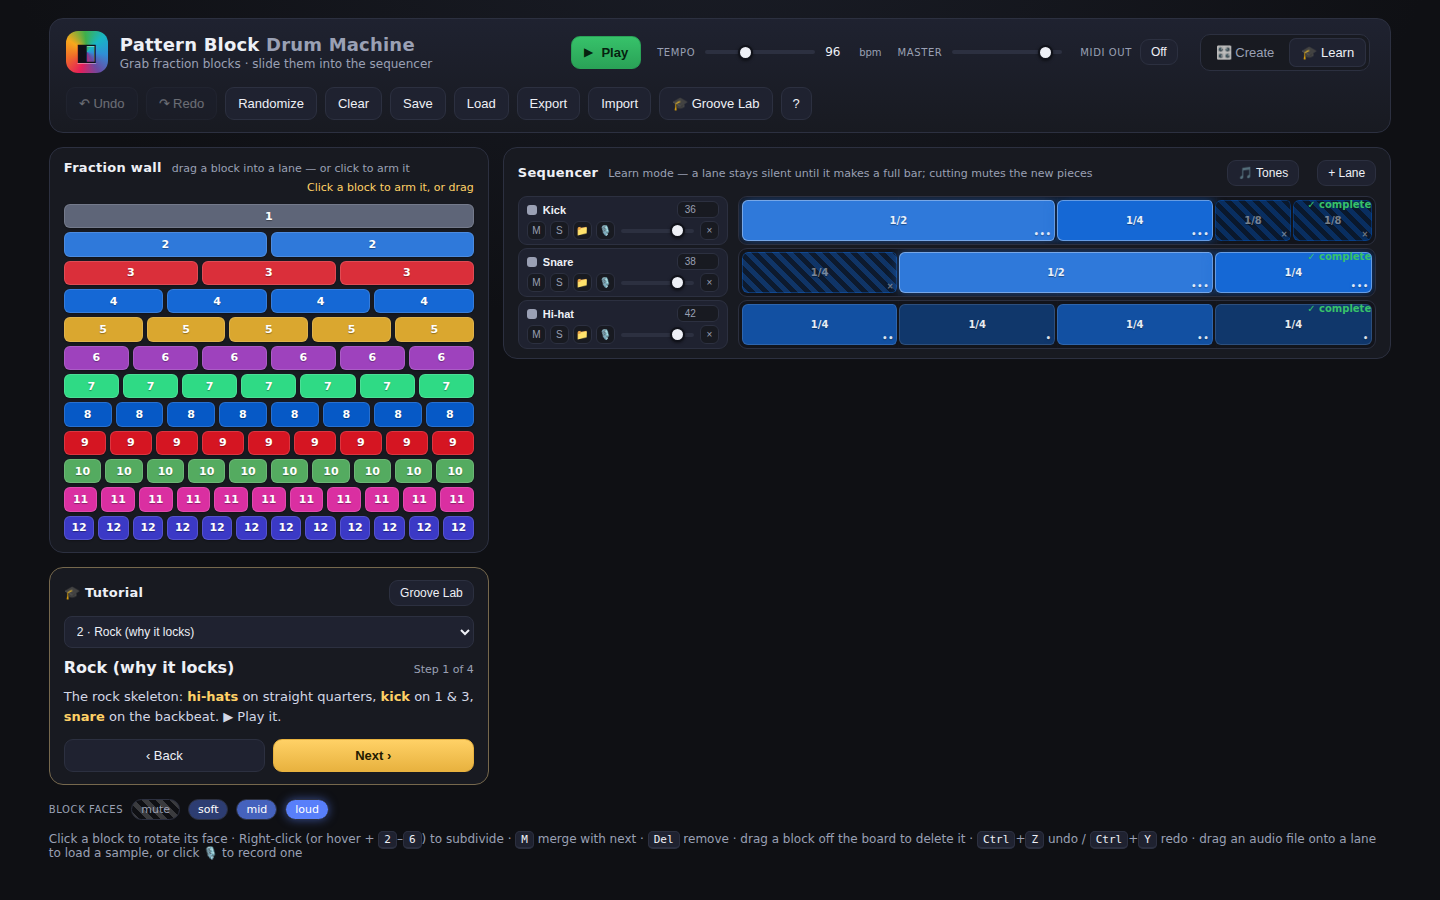
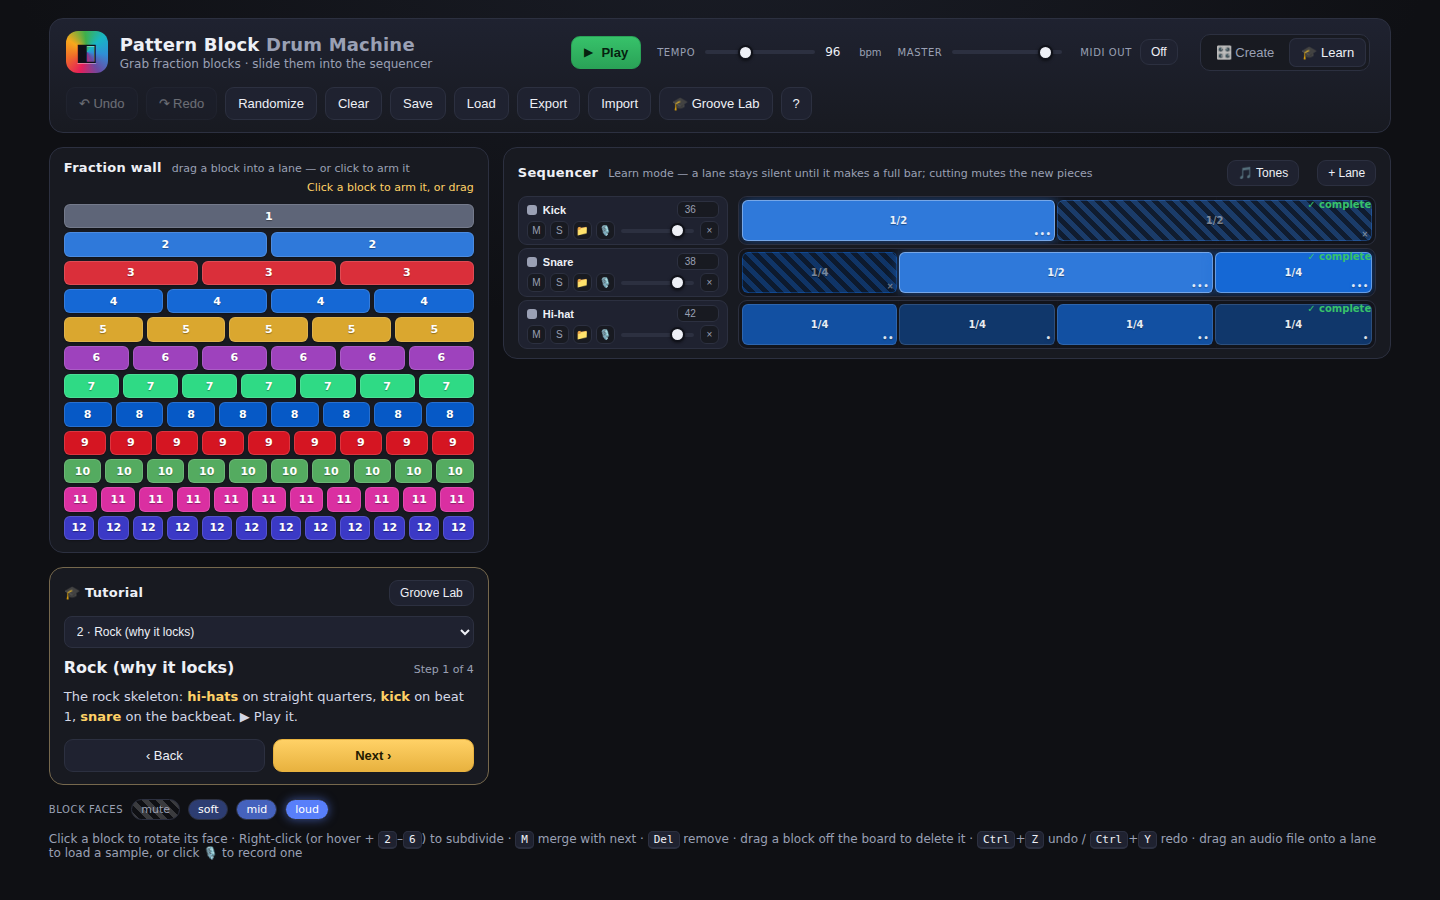
Detect overshoot, keepFaceOnCut for rock hats, kid-built kicks, blues fix
Overshoot handling: matching at a grid finer than the true minimal one no
longer silently passes. New cutMatchState() distinguishes incomplete /
overshoot / correct; an overshoot shows a live hint ("there's a smaller
way to draw this — merge a couple of pieces together") without stating
the number. Merging one piece on a tracked lane while overshot triggers
autoFixOvershoot(), which collapses every tracked lane straight to the
true grid (preserving each lane's audible pattern) instead of making kids
merge every piece by hand. Fixed a related bug where the tutorial panel
only re-rendered on a successful advance, so the hint/button state went
stale on every edit that didn't finish a step — now it refreshes after
every edit.

Rock: hi-hats get lane.keepFaceOnCut, a new per-lane override of the
"cutting mutes new pieces" rule — without it, recutting the hats to match
the kick's push would have silently halved their hits, undermining the
"notice it barely changes" point. Kick starts as plain halves; the kid
now cuts it themselves (right-click, split into 4) and clicks a sliver to
unmute the push, instead of it being pre-cut for them.

Blues: kick starts as a single whole-bar block; the kid cuts it into 6 and
unmutes the 1st, 3rd, 4th and 6th pieces themselves (hits on 1,3,4,6, not
5 — dropped per correction) for the ba-bum pattern, instead of it being
pre-built.

keepFaceOnCut now round-trips through undo/redo snapshots.

Cache-bust bumped to v=18.
[…]

Changed region(s): [[0.7188, 0.2178, 0.9688, 0.28], [0.0312, 0.7778, 0.2188, 0.8089]]

diff --git a/app.js b/app.js
@@ -756,11 +756,15 @@ function subdivide(li, bi, k) {
   pushUndo();
   const lane = state.lanes[li];
   const b = lane.blocks[bi];
-  // In Learn mode, cutting keeps only the first piece sounding and mutes the
-  // rest — so the audible groove is unchanged while the finer grid is revealed
-  // (the point of "cut the pieces so they're all the same size").
+  // In Learn mode, cutting normally keeps only the first piece sounding and
+  // mutes the rest — so the audible groove is unchanged while the finer grid
+  // is revealed. A lane can opt out (lane.keepFaceOnCut) for the rare lesson
+  // where the point is the opposite: that a finer grid still sounds the same
+  // when every piece stays audible (e.g. hi-hats you're re-measuring, not
+  // re-composing).
+  const mutesNewPieces = state.mode === 'learn' && !lane.keepFaceOnCut;
   const pieces = Array.from({ length: k }, (_, i) =>
-    blk(b.n, b.d * k, (state.mode === 'learn' && i > 0) ? 'mute' : b.face));
+    blk(b.n, b.d * k, (mutesNewPieces && i > 0) ? 'mute' : b.face));
   lane.blocks.splice(bi, 1, ...pieces);
   // a new size like 1/15 may not be on the wall yet — add it and reflow
   if (registerFraction(pieces[0])) renderPalette();
@@ -770,6 +774,19 @@ function subdivide(li, bi, k) {
 function mergeWithNext(li, bi) {
   const lane = state.lanes[li];
   if (bi >= lane.blocks.length - 1) { toast('Nothing after this block to merge'); return; }
+  // In Learn mode, merging on a lane that's matched-but-overshot the true
+  // grid is the "aha" moment — finish simplifying every tracked lane for them
+  // rather than making them merge every single piece by hand.
+  if (state.mode === 'learn') {
+    const step = currentStep();
+    if (step && step.matchLanes && step.matchLanes.includes(li)
+        && cutMatchState(step.matchLanes, step.matchTarget) === 'overshoot') {
+      pushUndo();
+      autoFixOvershoot(step.matchLanes, step.matchTarget);
+      toast('Nice — that\'s the idea. Simplified the rest to match! ✓');
+      return;
+    }
+  }
   pushUndo();
   const a = lane.blocks[bi], b = lane.blocks[bi + 1];
   const n = a.n * b.d + b.n * a.d;
@@ -1179,7 +1196,7 @@ function snapshotState() {
     denominators: state.denominators.slice(),
     lanes: state.lanes.map((l) => ({
       id: l.id, name: l.name, voice: l.voice, gain: l.gain, muted: l.muted, solo: l.solo,
-      midi: l.midi, buffer: l.buffer,
+      midi: l.midi, buffer: l.buffer, keepFaceOnCut: l.keepFaceOnCut,
       blocks: l.blocks.map((b) => ({ n: b.n, d: b.d, face: b.face })),
     })),
   };
@@ -1192,6 +1209,7 @@ function restoreState(snap) {
     const lane = newLane(s.voice, s.blocks.map((b) => blk(b.n, b.d, b.face)));
     lane.id = s.id; lane.name = s.name; lane.gain = s.gain; lane.muted = s.muted;
     lane.solo = s.solo; lane.midi = s.midi; lane.buffer = s.buffer || null;
+    lane.keepFaceOnCut = !!s.keepFaceOnCut;
     return lane;
   });
   laneSeq = state.lanes.reduce((m, l) => Math.max(m, l.id), laneSeq);
@@ -1355,12 +1373,47 @@ function lanesMatch(...indices) {
   const ks = indices.map(laneUnit);
   return ks.every((k) => k) && new Set(ks).size === 1;
 }
-// Replace the lanes for a lesson setup (voice, name, blocks).
+// A lane's audible pattern once it's uniformly 1/den pieces — one bool per
+// slot — or null if it isn't there yet. Used to check an exact built pattern
+// (e.g. "hits on 1, 3, 4, 6") without caring which face (loud/mid/soft) was used.
+function laneOnsets(li, den) {
+  if (!laneAllUnit(li, den)) return null;
+  return state.lanes[li].blocks.map((b) => b.face !== 'mute');
+}
+// 'incomplete' — lanes aren't all uniform, or don't match each other yet.
+// 'overshoot'  — they match, but at a grid finer than the true minimal one.
+// 'correct'    — they match exactly at target.
+// (Any common grid the lanes reach is guaranteed to be a whole multiple of
+// their true LCM, so checking k % target is exact, not a heuristic.)
+function cutMatchState(indices, target) {
+  const ks = indices.map(laneUnit);
+  if (!ks.every((k) => k) || new Set(ks).size !== 1) return 'incomplete';
+  return ks[0] === target ? 'correct' : 'overshoot';
+}
+// Once a kid has proven they get it (matched at a finer grid than needed) and
+// starts merging pieces back down, finish the simplification for every
+// tracked lane in one go instead of making them merge every single piece.
+function autoFixOvershoot(indices, target) {
+  for (const li of indices) {
+    const lane = state.lanes[li];
+    const k = laneUnit(li);
+    const m = k / target;
+    const collapsed = [];
+    for (let i = 0; i < target; i++) {
+      const group = lane.blocks.slice(i * m, i * m + m);
+      collapsed.push(blk(1, target, group.some((b) => b.face !== 'mute') ? 'loud' : 'mute'));
+    }
+    lane.blocks = collapsed;
+  }
+  markDirty(); renderSeq();
+}
+// Replace the lanes for a lesson setup (voice, name, blocks, keepFaceOnCut).
 function tutLanes(specs) {
   laneSeq = 0;
   state.lanes = specs.map((s) => {
     const lane = newLane(s.voice, s.blocks || []);
     if (s.name) lane.name = s.name;
+    lane.keepFaceOnCut = !!s.keepFaceOnCut;
     return lane;
   });
   if (ctx) { state.lanes.forEach(ensureLaneNode); applyLaneGains(); }
@@ -1377,37 +1430,45 @@ const LESSONS = [
       { text: "Make the <b>Kick</b> hit <b>twice</b>: fill the bar with two <b>½</b> blocks.", done: () => laneAllUnit(0, 2) },
       { text: "Make the <b>Snare</b> hit <b>three</b> times: fill it with three <b>⅓</b> blocks.", done: () => laneAllUnit(1, 3) },
       { text: "▶ Press <b>Play</b>. Two against three — hear how they pull, meeting only at the very start of the bar? That tug is the polyrhythm." },
-      { text: "Now the puzzle: <b>cut the pieces until both lanes are made of the same size and every hit lines up.</b> Right-click a block to cut it — the new pieces mute, so your groove stays. Trial and error: how small do they need to get?", done: () => lanesMatch(0, 1) },
+      {
+        text: "Now the puzzle: <b>cut the pieces until both lanes are made of the same size and every hit lines up.</b> Right-click a block to cut it — the new pieces mute, so your groove stays. Trial and error: how small do they need to get?",
+        matchLanes: [0, 1], matchTarget: 6,
+        done: () => cutMatchState([0, 1], 6) === 'correct',
+      },
       { text: "🎉 They line up! There's a grid where the two rhythms finally agree. <i>(Curious what size that is, and why? Open the <b>Groove Lab</b> — it does the maths for you.)</i>" },
     ],
   },
   {
     name: '2 · Rock (why it locks)',
     setup: () => tutLanes([
-      { voice: 0, name: 'Kick', blocks: [half('loud'), q('loud'), blk(1, 8, 'mute'), blk(1, 8, 'mute')] },
+      { voice: 0, name: 'Kick', blocks: [half('loud'), half('mute')] },
       { voice: 1, name: 'Snare', blocks: [q('mute'), half('loud'), q('loud')] },
-      { voice: 3, name: 'Hi-hat', blocks: [q('mid'), q('soft'), q('mid'), q('soft')] },
+      { voice: 3, name: 'Hi-hat', blocks: [q('mid'), q('soft'), q('mid'), q('soft')], keepFaceOnCut: true },
     ]),
     steps: [
-      { text: "The rock skeleton: <b>hi-hats</b> on straight quarters, <b>kick</b> on 1 & 3, <b>snare</b> on the backbeat. ▶ Play it." },
-      { text: "Give the kick a <b>push</b>: click the last little Kick slice (far right, greyed-out) to turn it up — a kick that lands just before beat 1 comes round again.", done: () => state.lanes[0].blocks.some((b) => { const r = reduce(b.n, b.d); return r.d === 8 && b.face !== 'mute'; }) },
-      { text: "That push is a smaller slice than the hats. <b>Recut the hi-hats until they match it</b> — cut each hat until they line up with the kick's smallest piece.", done: () => laneAllUnit(2, 8) },
+      { text: "The rock skeleton: <b>hi-hats</b> on straight quarters, <b>kick</b> on beat 1, <b>snare</b> on the backbeat. ▶ Play it." },
+      { text: "Give the kick a <b>push</b>: right-click that silent second half and cut it into <b>4</b> — then click one of the new slivers to bring it in, a quick kick right before the beat comes back around.", done: () => state.lanes[0].blocks.some((b) => { const r = reduce(b.n, b.d); return r.d === 8 && b.face !== 'mute'; }) },
+      { text: "That push is a smaller slice than the hats. <b>Recut the hi-hats to match it</b> — cut each hat until they're the same tiny size as the kick's push.", done: () => laneAllUnit(2, 8) },
       { text: "Doesn't sound super different, does it? The hats just fill in around the same groove. In rock everything shares one easy grid, so it all <b>locks</b> — that tight, four-square lock <i>is</i> the sound. To change the feel you need a different kind of number… next lessons." },
     ],
   },
   {
     name: '3 · Blues shuffle',
-    // Kick sounds on the 6-grid at 1,3,4,5,6 (position 2 held silent inside the
-    // opening 1/3 block); snare is a muted half then a half (backbeat midpoint).
     setup: () => tutLanes([
-      { voice: 0, name: 'Kick', blocks: [blk(1, 3, 'loud'), blk(1, 6, 'loud'), blk(1, 6, 'loud'), blk(1, 6, 'loud'), blk(1, 6, 'loud')] },
+      { voice: 0, name: 'Kick', blocks: [blk(1, 1, 'loud')] },
       { voice: 1, name: 'Snare', blocks: [half('mute'), half('loud')] },
       { voice: 4, name: 'Ride' },
     ]),
     steps: [
-      { text: "A <b>blues shuffle</b>, felt in two but rolling underneath. Here's a ba-bum <b>kick</b> and a backbeat <b>snare</b>. ▶ Play the bed." },
+      { text: "A <b>blues shuffle</b>, felt in two but rolling underneath. Here's the backbeat <b>snare</b> — now let's build the kick." },
+      { text: "Right-click the <b>Kick</b> block and cut it into <b>6</b>. Then click the 1st, 3rd, 4th and 6th pieces to bring them back in — leave the 2nd and 5th silent. That's the ba-bum bounce.", done: () => JSON.stringify(laneOnsets(0, 6)) === JSON.stringify([true, false, true, true, false, true]) },
+      { text: "▶ Play it — that shuffle kick against the backbeat." },
       { text: "Add the <b>ride</b> roll: fill it with <b>sixths</b> (⅙) — six even swung notes.", done: () => laneAllUnit(2, 6) },
-      { text: "Now <b>cut the Kick and Snare until every lane lines up</b> with the ride — trial and error until they're all the same size.", done: () => lanesMatch(0, 1, 2) },
+      {
+        text: "Now <b>cut everything until every lane lines up</b> with the ride — trial and error until they're all the same size.",
+        matchLanes: [0, 1, 2], matchTarget: 6,
+        done: () => cutMatchState([0, 1, 2], 6) === 'correct',
+      },
       { text: "Everything sits together, but that rolling triplet subdivision is the <b>shuffle</b> — the lope of blues and jazz. A bigger family than rock, funkier flavour, still no fight. <i>(Groove Lab if you want the numbers.)</i>" },
     ],
   },
@@ -1423,7 +1484,11 @@ const LESSONS = [
     steps: [
       { text: "Ewe drumming from <b>Ghana</b>. The <b>bell</b> (gankoguí) keeps a steady four and the <b>shaker</b> (axatse) fills the pulse. ▶ Play." },
       { text: "Add the <b>drum</b> across the top: make it hit <b>three</b> even times.", done: () => laneAllUnit(1, 3) },
-      { text: "Feel it breathe? The bell's four and the drum's three lean on each other, agreeing only here and there. <b>Cut the Bell and Drum until everything lines up</b> — keep cutting and listening till they match.", done: () => lanesMatch(0, 1, 2) },
+      {
+        text: "Feel it breathe? The bell's four and the drum's three lean on each other, agreeing only here and there. <b>Cut the Bell and Drum until everything lines up</b> — keep cutting and listening till they match.",
+        matchLanes: [0, 1, 2], matchTarget: 12,
+        done: () => cutMatchState([0, 1, 2], 12) === 'correct',
+      },
       { text: "There's the shared grid — but the four and the three still <i>weave</i>, and that weave is the engine of West-African drumming and every 6/8 groove that grew from it: Afro-Cuban, jazz, gospel. Rock locked; this one dances." },
     ],
   },
@@ -1437,7 +1502,11 @@ const LESSONS = [
     steps: [
       { text: "A <b>four-on-the-floor</b> dance beat: <b>kick</b> every quarter, <b>clap</b> on the backbeat. Rock-solid. ▶ Play." },
       { text: "Now the producer's twist: fill the <b>Stab</b> lane so it hits <b>five</b> even times.", done: () => laneAllUnit(2, 5) },
-      { text: "Hear it slide? Four and five almost never agree. <b>Cut the Kick and the Stab until they finally line up</b> — fair warning, it takes a <i>lot</i> of tiny pieces.", done: () => lanesMatch(0, 2) },
+      {
+        text: "Hear it slide? Four and five almost never agree. <b>Cut the Kick and the Stab until they finally line up</b> — fair warning, it takes a <i>lot</i> of tiny pieces.",
+        matchLanes: [0, 2], matchTarget: 20,
+        done: () => cutMatchState([0, 2], 20) === 'correct',
+      },
       { text: "Look how fine you had to cut before they matched — that's <i>why</i> it feels restless and hypnotic, and so danceable. Producers often just hint the five instead of spelling it out. And that same four-and-five, played as two pitches, is one of the sweetest chords there is — flip <b>🎵 Tones</b> and hear it." },
     ],
   },
@@ -1478,6 +1547,11 @@ function renderTutorial() {
   $('#tutNext').disabled = gated;
   $('#tutNext').textContent = atEnd ? '↻ Start over' : (state.step === L.steps.length - 1 ? 'Next lesson ›' : 'Next ›');
   $('#tutWaiting').hidden = !gated;
+  let waitingText = 'waiting for you to try it…';
+  if (gated && step.matchLanes && cutMatchState(step.matchLanes, step.matchTarget) === 'overshoot') {
+    waitingText = "you've matched — but there's a smaller way to draw this. Merge a couple of pieces back together to simplify.";
+  }
+  $('#tutWaiting').innerHTML = `<span class="tut-dot"></span> ${waitingText}`;
 }
 
 // Auto-advance within a lesson when the current step's goal is reached.
@@ -1486,9 +1560,12 @@ function maybeAdvanceTutorial() {
   const L = currentLesson(), step = currentStep();
   if (step && step.done && step.done() && state.step < L.steps.length - 1) {
     state.step++;
-    renderTutorial();
     toast('Nice! ✓');
   }
+  // Always refresh — not just on advance — so the Next button and the
+  // overshoot hint stay accurate after every edit, even ones that don't
+  // finish the step.
+  renderTutorial();
 }
 function tutorialNext() {
   const step = currentStep();

diff --git a/index.html b/index.html
@@ -5,7 +5,7 @@
   <meta name="viewport" content="width=device-width, initial-scale=1.0" />
   <title>Pattern Block Drum Machine</title>
   <meta name="description" content="Grab fraction blocks from the wall and slide them into a sampler sequencer. Rotate block faces for dynamics, subdivide beats." />
-  <link rel="stylesheet" href="styles.css?v=17" />
+  <link rel="stylesheet" href="styles.css?v=18" />
 </head>
 <body>
   <div id="app">
@@ -236,6 +236,6 @@
   <input id="fileInput" type="file" accept="audio/*" hidden />
   <input id="jsonInput" type="file" accept="application/json,.json" hidden />
 
-  <script src="app.js?v=17"></script>
+  <script src="app.js?v=18"></script>
 </body>
 </html>

diff --git a/README.md b/README.md
@@ -113,6 +113,9 @@ Throughout, a lane stays **silent until it makes a full bar** (a muted block
 counts as a rest, and the missing amount is never spelled out — that's the
 puzzle), you **can't skip a step until you've actually done it**, and **cutting a
 block mutes the new pieces**, so the groove holds while the finer grid appears.
+Cutting further than needed doesn't sneak past, either — if you overshoot, the
+tutorial notices and nudges you to merge a couple of pieces back together; merge
+just one and it tidies up the rest for you.
 
 The **Groove Lab** is a popout (button in the toolbar, works in either mode).
 Pick any two numbers, or hit **Use my lanes**, and it live-computes:
